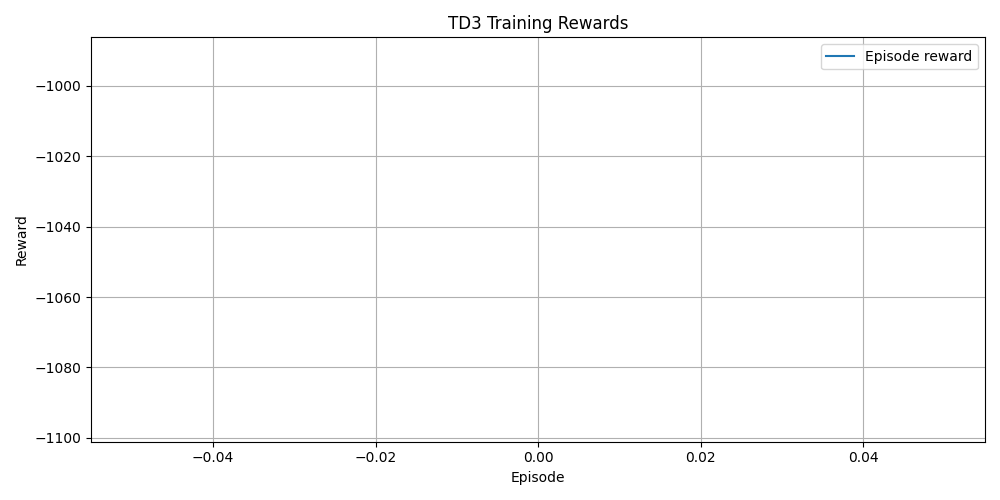
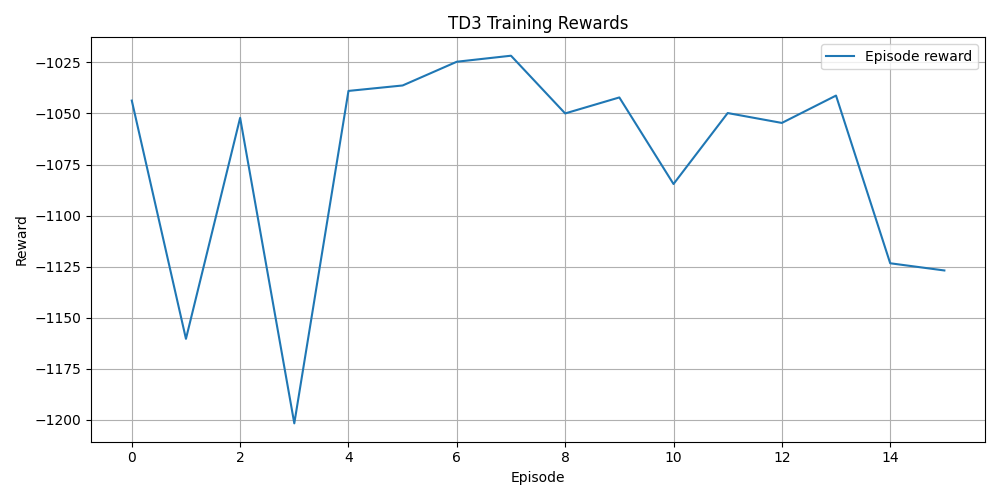
Changed termination penalty and parallelized

diff --git a/jackal_env/jackal_env.py b/jackal_env/jackal_env.py
@@ -233,7 +233,7 @@ class JackalEnv(gymnasium.Env):
         	- self.wt * tracking_error
             - self.wt * orientation_error
         	- self.wc * control_penalty
-            - 1000.0 * is_terminated
+            - 5000.0 * is_terminated
     	)
 
         info = {
